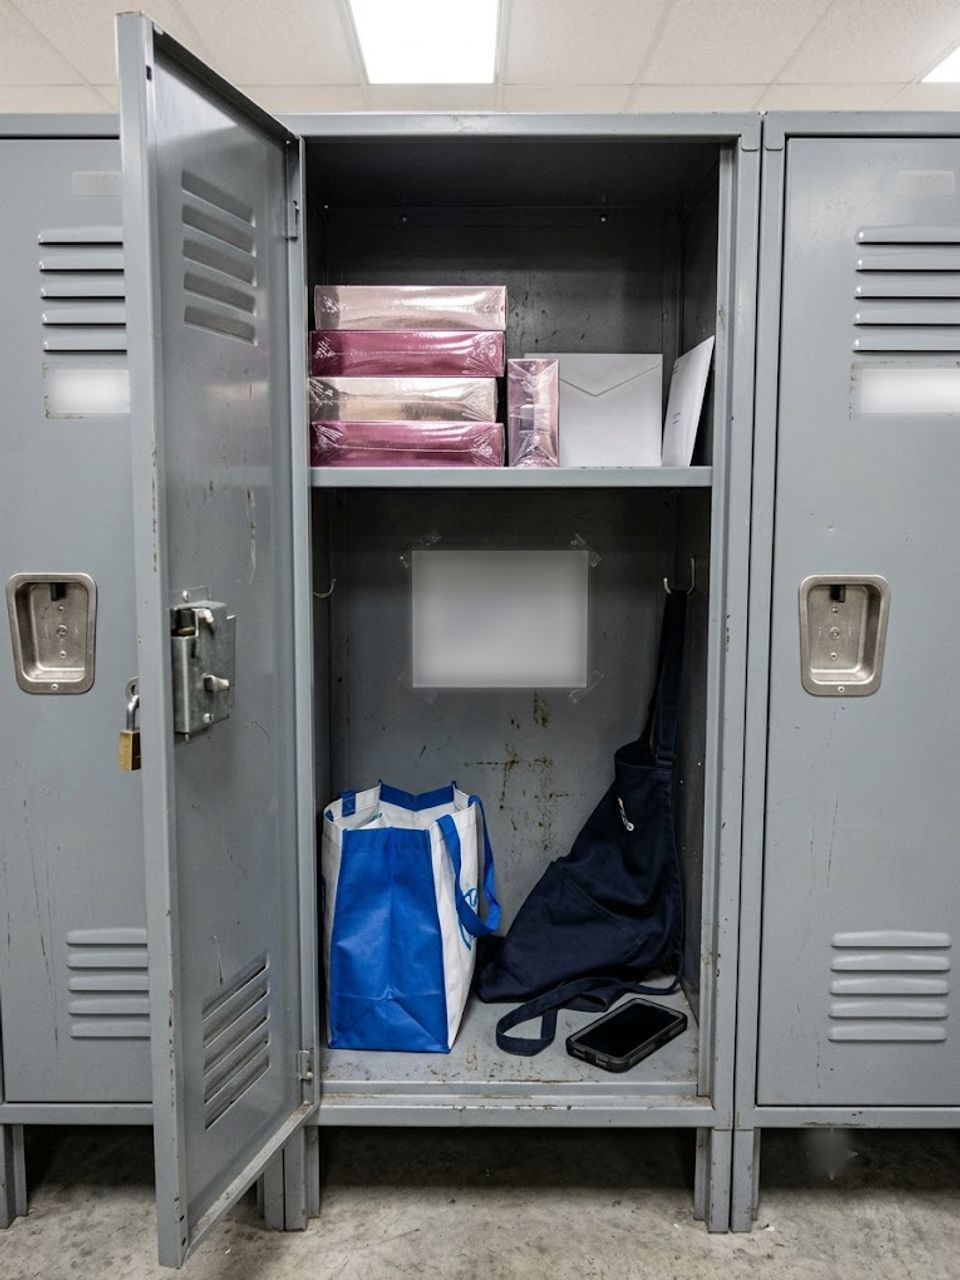
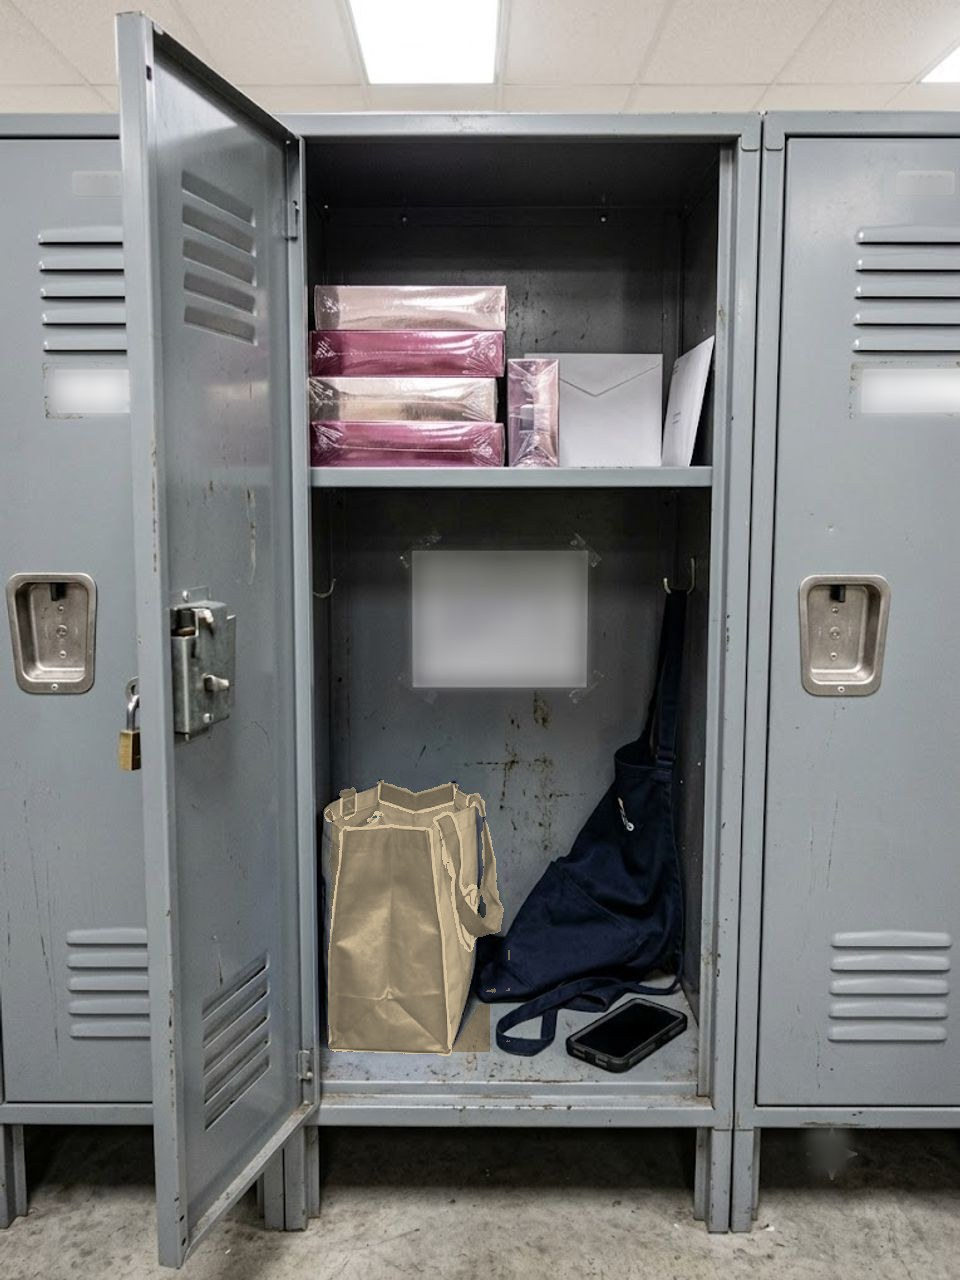
fix(야간조 솔로): 튜토리얼 2차 시험 뒤 — 오정숙 사물함 가방 색 · 반박할 말 전체 · 「아래에 더 있어요」
사실 어긋남
- 오정숙 사물함 장면의 가방이 파란 비닐 장바구니인데 단서 사진·글은 베이지 천 가방 → 장면 가방을 베이지로 다시 칠함
- 질문지 「(❗ 아직 안 물은 것 4개)」 — ❗ 는 하나뿐이라 숫자와 표시가 안 맞았다 → ❗ 를 뺌
- 튜토리얼 완료 창에 표시의 뜻(빨간 숫자 = 안 물은 것 중 거짓이 숨은 대답 · 노란 ! · ⚖ · ♥) — 셋 다 몰랐다

흐름·화면
- 증거 고르기 머리글: 반박할 말을 세 줄까지(22자에서 잘렸다) + 「캐물어 들은 말」도 함께
- 단서 창 「▼ 아래에 더 있어요」 — 옅은 그림자는 아무도 못 봤다. 튜토리얼 말풍선이 있으면 그 위로
- 질문 고르기 단계에서 ⚖ 뜻을 먼저 말한다
- 추천 대상(서장현)이 생기면 지도를 그 사람 가운데로 — 오른쪽 끝에 걸려 이름판이 잘렸다
- 이름판 「✓ 다 봄 · 남은 질문 n」

Changed region(s): [[0.3438, 0.5938, 0.5312, 0.8438]]

diff --git a/src/yaganjo/solo/features/interrogation.jsx b/src/yaganjo/solo/features/interrogation.jsx
@@ -205,7 +205,7 @@ export function CrossExamView({ suspect, location, state, collectedClues, phase 
     // 튜토리얼 마지막 한 걸음 — 질문지로 돌아오면 안내가 말없이 사라져, 마무리 화면이 🚪 로 나가야 뜬다는 걸
     //   셋 다 몰랐다(튜토리얼 1차). 말풍선은 질문 목록을 덮어서, 여기 한 줄 + 🚪 를 금색으로.
     : tutorialSeen && !tutFinaleSeen ? '튜토리얼 끝 — 더 물어봐도 되고, 다 됐으면 금색 🚪 로 나가 마무리하세요.'
-    : (hasAsks ? (pendingRoot > 0 ? `무엇을 물어볼까. (❗ 아직 안 물은 것 ${pendingRoot}개)` : '무엇을 물어볼까.')
+    : (hasAsks ? (pendingRoot > 0 ? `무엇을 물어볼까. (아직 안 물은 것 ${pendingRoot}개)` : '무엇을 물어볼까.')
       : '…(지금은 물어볼 것이 없다. 단서를 모으거나 수사가 진행되면 질문이 생긴다.)');
   // 캐묻기·반응 라인을 닫으면 텍스트가 답변(cur.text)으로 되돌아가는데, DialogueBox 는 텍스트가
   //   바뀐 것으로 보고 방금 읽은 답변을 처음부터 다시 친다. vn.jsx 는 건드릴 수 없으니
@@ -509,7 +509,7 @@ export function CrossExamView({ suspect, location, state, collectedClues, phase 
                     ? { targetSel: '.aa-dlg-actions', text: openTopic ? '「↩ 이 이야기로」로 질문지로 돌아가세요' : '「↩ 다른 질문」으로 질문지로 돌아가세요' }
                     : { targetSel: '[data-tut="tut-q"]', text: tutTopic && !openTopic
                       ? `「${tutTopic.q}」 — 이 이야기를 꺼내 보세요`
-                      : `「${statements.find((x) => x.id === tutT.stId)?.q || '이 질문'}」 — 이 질문을 고르세요` })
+                      : `「${statements.find((x) => x.id === tutT.stId)?.q || '이 질문'}」 — 이 질문을 고르세요. 끝의 「⚖ 저울」은 가진 증거로 깰 수 있는 대답이라는 표시` })
             : (line
               ? { targetSel: '.aa-dialogue', text: tutHit ? '모순을 짚었다 — 증거는 이렇게 들이민다. 진짜로 깨지는 대답에는 질문 끝에 「⚖ 저울」 표시가 붙는다. 탭해서 넘기세요' : '대사창을 탭해 이야기를 넘기세요' }
               : cur
@@ -522,9 +522,13 @@ export function CrossExamView({ suspect, location, state, collectedClues, phase 
       {picker && cur && !bk && (
         <div className="aa-present">
           <div className="aa-present-h">
-            <span>📁 반박할 증거를 고르세요 — “{cur.text.length > 22 ? cur.text.slice(0, 22) + '…' : cur.text}” <span style={{ color: 'var(--muted)' }}>(길게 누르면 본문)</span></span>
+            <span>📁 반박할 증거를 고르세요 <span style={{ color: 'var(--muted)' }}>(길게 누르면 본문)</span></span>
             <button className="aa-close" onClick={() => setPicker(false)}>✕</button>
           </div>
+          {/* 반박할 말을 끝까지(세 줄까지) — 22자에서 잘려 정작 깰 대목이 안 보였다. 캐물어 들은 말도 같이 —
+              더 캐물은 말을 보고 반박을 눌렀는데 머리글엔 첫 대답만 떠서 무엇을 반박하는지 헷갈렸다(튜토리얼 2차, 셋 다) */}
+          <div className="aa-present-q">“{cur.text}”</div>
+          {typeof cur.press === 'string' && pressedIds.includes(cur.id) && <div className="aa-present-q press">캐물어 들은 말 — “{cur.press}”</div>}
           {presentable.length === 0
             ? <p style={{ color: 'var(--muted)', fontSize: '.85rem', padding: '4px 2px' }}>이 인물과 관련된 단서가 아직 없습니다. 현장·대화로 단서를 더 모으세요.</p>
             : <>

diff --git a/src/yaganjo/solo/ui/overlays.jsx b/src/yaganjo/solo/ui/overlays.jsx
@@ -3,7 +3,7 @@
 //   Shell        : 단서 열람용 중앙 모달(ESC 닫기)
 //   SheetOverlay : 전체 화면 시트(수첩·범인 지목 공용, ESC 닫기)
 // ─────────────────────────────────────────────────────────────────────────────
-import { useEffect } from 'react';
+import { useEffect, useRef, useState } from 'react';
 
 export function Shell({ title, onClose, children }) {
   useEffect(() => {
@@ -11,11 +11,34 @@ export function Shell({ title, onClose, children }) {
     document.addEventListener('keydown', onKey);
     return () => document.removeEventListener('keydown', onKey);
   }, [onClose]);
+  // 아래에 글이 더 있으면 「▼ 아래에 더 있어요」 — 글이 창 끝에 딱 맞게 끊기면 다 읽은 줄 알았다(튜토리얼 2차).
+  //   옅은 그림자는 아무도 못 봤다. 끝까지 밀면 사라진다. 그림이 늦게 와 높이가 바뀌어도 다시 잰다.
+  const boxRef = useRef(null);
+  const [more, setMore] = useState(false);
+  const [lift, setLift] = useState(0); // 튜토리얼 말풍선이 창 아래를 덮고 있으면 그만큼 위로
+  const sync = () => {
+    const el = boxRef.current;
+    if (!el) return;
+    setMore(el.scrollHeight - el.scrollTop - el.clientHeight > 24);
+    const dock = document.querySelector('.tut-tip.dock');
+    // sticky 는 창의 아래 여백(튜토리얼 동안 120px) 위에서 멈추므로 그만큼은 빼고 모자란 만큼만
+    const pb = parseFloat(getComputedStyle(el).paddingBottom) || 0;
+    setLift(dock ? Math.max(0, Math.round(el.getBoundingClientRect().bottom - dock.getBoundingClientRect().top + 6 - pb)) : 0);
+  };
+  useEffect(() => {
+    sync();
+    const el = boxRef.current;
+    if (!el || typeof ResizeObserver === 'undefined') return undefined;
+    const ro = new ResizeObserver(sync);
+    [...el.children].forEach((c) => ro.observe(c));
+    return () => ro.disconnect();
+  }, [children]);
   return (
     <div className="s-modal-ov" onClick={onClose}>
-      <div className="s-modal" onClick={(e) => e.stopPropagation()}>
+      <div className="s-modal" ref={boxRef} onScroll={sync} onClick={(e) => e.stopPropagation()}>
         <div className="s-modal-h"><div className="mt">{title}</div><button className="mx" onClick={onClose}>✕</button></div>
         <div className="s-modal-b">{children}</div>
+        {more && <div className="s-modal-more" aria-hidden="true" style={lift ? { bottom: lift } : undefined}>▼ 아래에 더 있어요</div>}
       </div>
     </div>
   );

diff --git a/src/yaganjo/solo/solo.css b/src/yaganjo/solo/solo.css
@@ -882,11 +882,12 @@ button { font-family: inherit; }
 body:has(.tut-tip.dock) .s-modal { padding-bottom: 120px; }
 body:has(.tut-tip.dock) .s-sheet-body { padding-bottom: 140px; }
 body:has(.tut-tip.dock) .s-toast { display: none; }
-/* 단서 창 아래에 글이 더 있으면 아래 가장자리가 어두워진다 — 끝까지 밀면 사라진다(스크롤 그림자).
-   순찰 일지 03:00 줄이 첫 화면 밖에 있는데 더 있다는 표시가 없었다(튜토리얼 1차, 셋 다) */
-.s-modal { background:
-  linear-gradient(rgba(0,0,0,0), var(--panel) 70%) center bottom / 100% 44px no-repeat local,
-  linear-gradient(rgba(0,0,0,0), rgba(0,0,0,.75)) center bottom / 100% 36px no-repeat scroll,
-  var(--panel); }
+/* 단서 창 아래에 글이 더 있으면 창 아래쪽에 붙는 표시(overlays Shell) — 옅은 그림자는 아무도 못 봤다(튜토리얼 2차) */
+.s-modal-more { position: sticky; bottom: 0; margin-top: -30px; height: 30px; display: flex; align-items: flex-end; justify-content: center; pointer-events: none;
+  background: linear-gradient(rgba(0,0,0,0), var(--panel) 75%); color: #ffe9a8; font-size: .76rem; font-weight: 700; padding-bottom: 4px; }
 /* 단서 창이 열려 있으면 「단서 확보」 알림은 맨 위에 작게 — 사진 윗부분을 덮었다(튜토리얼 1차, 둘). 새벽이슬과 같게 */
 body:has(.s-modal) .s-toast:not(.low) { top: 8px; font-size: .8rem; padding: 6px 12px; }
+/* 증거 고르기 — 반박할 말을 세 줄까지, 캐물어 들은 말은 그 아래 흐리게(튜토리얼 2차) */
+.aa-present-q { display: -webkit-box; -webkit-line-clamp: 3; -webkit-box-orient: vertical; overflow: hidden; margin: 2px 0 6px; color: #e8e4dc; font-size: .84rem; line-height: 1.5; }
+.aa-present-q.press { color: #b9bfcc; font-size: .78rem; -webkit-line-clamp: 2; }
+.tut-finale .tf-legend { font-size: .78rem; line-height: 1.8; color: #b9bbc2; background: #0b0d12; border: 1px solid var(--line); border-radius: 10px; padding: 8px 10px; margin: -6px 0 16px; text-align: left; }

diff --git a/src/yaganjo/solo/features/hub.jsx b/src/yaganjo/solo/features/hub.jsx
@@ -134,7 +134,7 @@ export function HallNav({ locations, stage, progressStage, collectedSet, state, 
     // 물건은 다 봤는데 물을 것이 남으면 그 말을 붙인다 — 빨간 배지의 뜻은 툴팁에만 있어 폰에선
     //   「탐색완료인데 왜 1?」이 됐다(튜토리얼 1차, 둘).
     const q = got === total ? alertsOf(loc).questions : 0;
-    return total > 0 && got === total ? (q ? `✓ 다 봄 · 질문 ${q}` : '✓ 탐색완료') : `단서 ${got}/${total}`;
+    return total > 0 && got === total ? (q ? `✓ 다 봄 · 남은 질문 ${q}` : '✓ 탐색완료') : `단서 ${got}/${total}`;
   };
   const enter = (loc, isCrime) => {
     if (!loc) return;
@@ -175,6 +175,18 @@ export function HallNav({ locations, stage, progressStage, collectedSet, state, 
     window.addEventListener('resize', syncEdge);
     return () => window.removeEventListener('resize', syncEdge);
   }, [overview]);
+  // 추천 대상(튜토리얼의 서장현)이 생기면 그 사람을 가운데로 — 화면 오른쪽 끝에 반쯤 걸려 이름판·「남은 질문 n」이
+  //   잘렸다(튜토리얼 2차, 셋 다). 수첩을 닫고 돌아온 순간 한 번만.
+  useEffect(() => {
+    const cam = camRef.current;
+    if (!cam || overview || !recommendPerson) return;
+    const rec = cam.querySelector('[data-tut="door"]');
+    if (!rec) return;
+    const c = cam.getBoundingClientRect(), r = rec.getBoundingClientRect();
+    cam.scrollLeft += (r.left + r.width / 2) - (c.left + c.width / 2);
+    syncEdge();
+    /* eslint-disable-next-line */
+  }, [recommendPerson]);
   // 떠나는 순간에 자리를 적는다 — 스크롤 신호로만 적으면 신호가 안 오는 때가 있어, 방에 들어갔다 나오면
   //   지도·복도가 처음 자리로 돌아갔다(2026-10-07 시험, 세 사람 모두). 레이아웃 정리 단계는 DOM 이 떼이기 전이라 값이 살아 있다.
   useLayoutEffect(() => {

diff --git a/src/yaganjo/solo/features/tutorial.jsx b/src/yaganjo/solo/features/tutorial.jsx
@@ -140,6 +140,11 @@ export function TutorialFinale({ onClose }) {
           확보한 단서는 <b>사건 기록</b>에서 인물·유형별로 확인할 수 있습니다.<br />
           여섯 명을 <b>한 번씩 다 만나면</b> C통로 현장·공용 공간·관제실 열람대·감식 의뢰실이 열립니다.<br />
           2차 심문이 열리면 <b>사건 파일</b>을 제출해 사건을 마무리하세요.</p>
+        {/* 표시의 뜻 — 지도 배지 빨간 숫자와 노란 ! 의 차이를 아무도 몰랐다(튜토리얼 2차, 셋 다). 새벽이슬과 같게 */}
+        <p className="tf-legend">
+          지도 배지 — <b style={{ color: '#ff8a80' }}>빨간 숫자</b> 아직 안 물은 것 중 거짓이 숨은 대답의 수 · <b style={{ color: '#e8c76b' }}>노란 !</b> 아직 볼 것·물을 것이 남음<br />
+          심문 — <b>⚖ 저울</b> 깰 수 있는 대답 · <b style={{ color: '#e8706e' }}>♥</b> 신뢰도(아무 데도 안 쓰이는 단서를 내밀 때만 준다)
+        </p>
         <button className="s-btn" onClick={onClose}>수사 시작</button>
       </div>
     </div>
